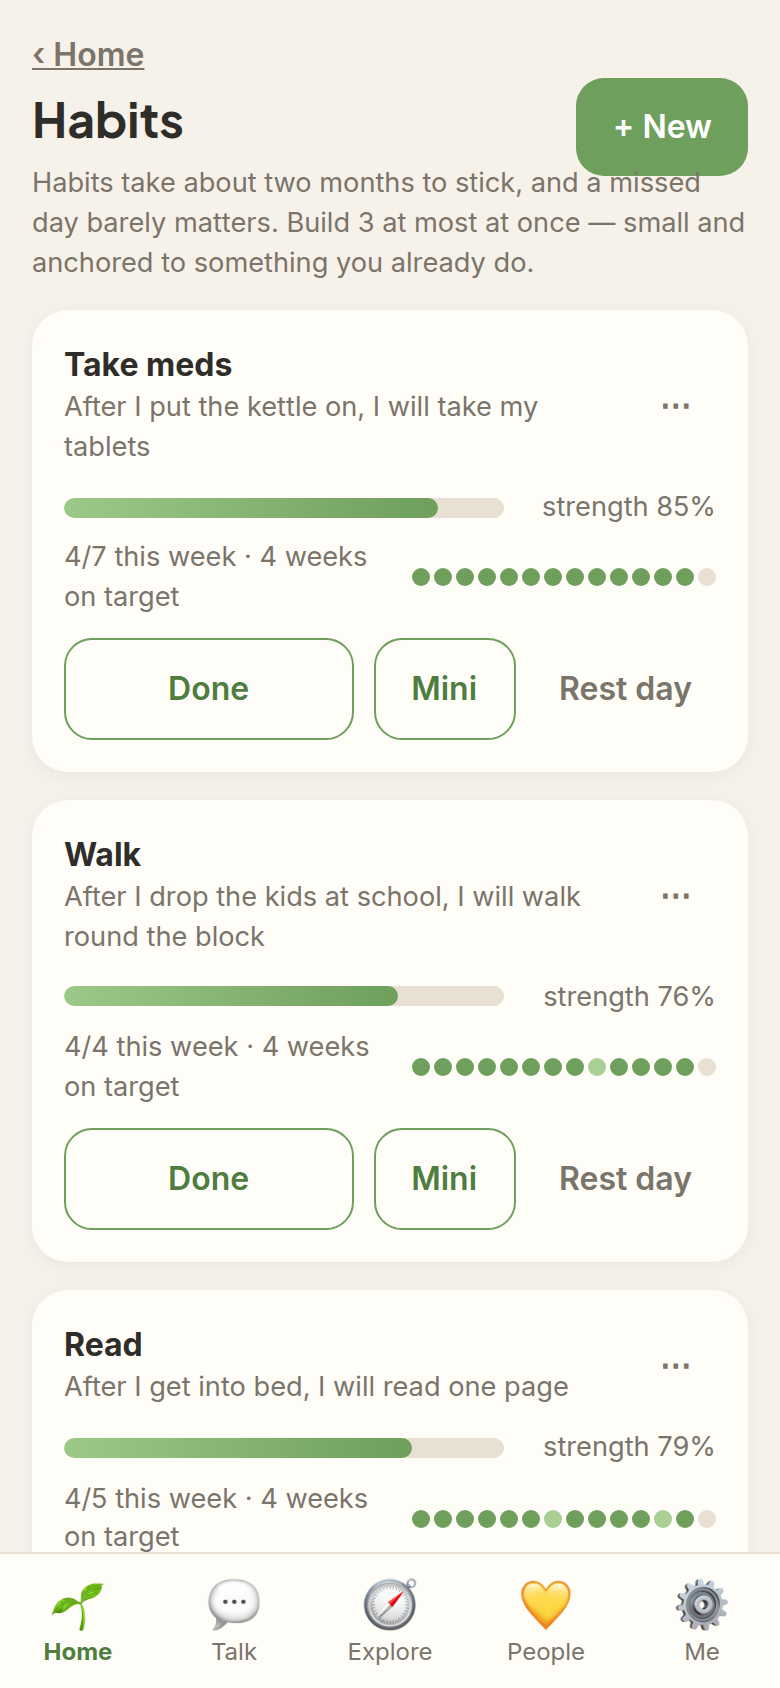
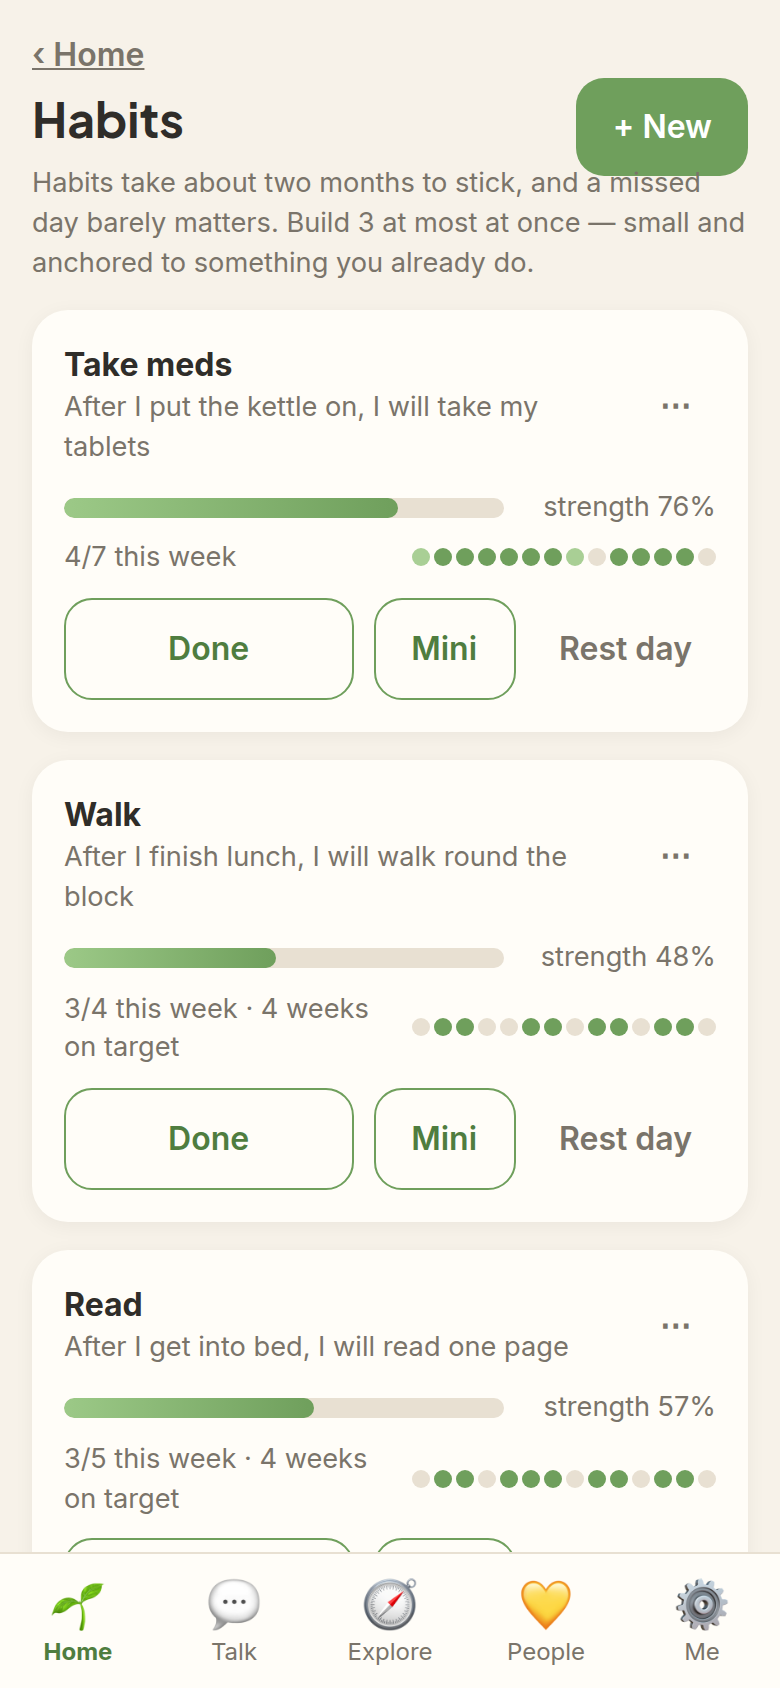
README: install guides (Docker, WSL 2, Linux without Docker), AI provider guide, HTTPS, backups; screenshots; fix header overlap

diff --git a/public/js/talk.js b/public/js/talk.js
@@ -13,7 +13,7 @@
     if (!id) {
       const { threads, web } = await api('/api/chat/threads');
       $app.innerHTML = `${modeSwitch('chat')}<div class="row"><h1 class="grow">Chat</h1><button class="btn" id="new">+ New</button></div>
-        <p class="small muted" style="margin-top:-6px">Ask anything — writing, ideas, how-to, questions. ${web ? '🌐 Can search the web (search terms leave your network).' : '🔒 Private, no web.'} For planning or how you’re feeling, use Coach.</p>
+        <p class="small muted" style="margin-top:4px">Ask anything — writing, ideas, how-to, questions. ${web ? '🌐 Can search the web (search terms leave your network).' : '🔒 Private, no web.'} For planning or how you’re feeling, use Coach.</p>
         <div class="card">${threads.length ? threads.map((t) => `<a class="friend" href="#chat/${t.id}" style="text-decoration:none;color:inherit"><div class="grow"><b>${esc(t.title)}</b><div class="small muted">${new Date(t.updated_at).toLocaleString('en-GB', { weekday: 'short', day: 'numeric', month: 'short', hour: '2-digit', minute: '2-digit' })}</div></div><span>›</span></a>`).join('') : '<p class="muted">No chats yet.</p>'}</div>`;
       document.getElementById('new').onclick = async () => { const r = await api('/api/chat/threads', { body: {} }); location.hash = `#chat/${r.thread.id}`; };
       return;

diff --git a/public/js/habits.js b/public/js/habits.js
@@ -32,7 +32,7 @@
     const showWeeks = F.state?.user?.settings?.streaks_enabled !== false;
     $app.innerHTML = `<a href="#home" class="btn ghost" style="padding-left:0">‹ Home</a>
       <div class="row"><h1 class="grow">Habits</h1><button class="btn" id="add">+ New</button></div>
-      <p class="small muted" style="margin-top:-6px">Habits take about two months to stick, and a missed day barely matters. Build ${d.maxBuilding} at most at once — small and anchored to something you already do.</p>
+      <p class="small muted" style="margin-top:4px">Habits take about two months to stick, and a missed day barely matters. Build ${d.maxBuilding} at most at once — small and anchored to something you already do.</p>
       ${d.freshStart && building.length ? '<div class="banner small">🌅 Fresh start — new week. The mini version counts in full.</div>' : ''}
       ${building.length ? building.map((h) => habitCard(h, showWeeks)).join('') : '<div class="card"><p class="muted">No habits yet. Start with one tiny thing anchored to your day — “After I pour my coffee, I take my meds.”</p></div>'}
       ${parked.length ? `<h2 style="margin-top:18px">Parking lot</h2><p class="small muted">Saved for later, so they’re not on your mind.</p>${parked.map((h) => habitCard(h, false)).join('')}` : ''}`;

diff --git a/README.md b/README.md
@@ -8,9 +8,9 @@ a little story. It never gets sad, sick or smaller because you were away.
 
 Around the pet is a toolkit built from the ADHD, habit and relapse-prevention research:
 
-- **A private ADHD coach**, running on *your* model (Ollama, llama.cpp or any OpenAI-compatible endpoint). It makes
-  if-then plans, breaks tasks into two-minute steps, captures to-dos to one inbox and nudges you at the point of
-  performance. Its crisis handling is code, not a prompt.
+- **An ADHD coach** that makes if-then plans, breaks tasks into two-minute steps, keeps one inbox and nudges
+  you at the right moment. Run it on **your own model (Ollama)** or bring an API key for **ChatGPT, Claude, Gemini
+  or OpenRouter**. Crisis handling is code, not a prompt.
 - **Habits** scored on strength rather than streaks. A missed day dents the score; it doesn't wipe your progress.
 - **A sobriety tracker** for alcohol and 21 other substances and behaviours. The headline number is *total free
   days*, which never goes down. A slip opens a short debrief, not a reset.
@@ -20,14 +20,24 @@ Around the pet is a toolkit built from the ADHD, habit and relapse-prevention re
 It runs on your server, works offline, and installs as an app on Android, iPhone and desktop.
 
 <p align="center">
-  <img src="docs/screenshots/home.png" width="230" alt="Home: the sprig in its room">
-  <img src="docs/screenshots/habits.png" width="230" alt="Habits">
-  <img src="docs/screenshots/sober.png" width="230" alt="Sobriety tracker">
+  <img src="docs/screenshots/home.png" width="200" alt="Home: the sprig in its room, energy bar and good days">
+  <img src="docs/screenshots/coach.png" width="200" alt="The coach turning 'I can't start my tax return' into a first step and a 9am nudge">
+  <img src="docs/screenshots/habits.png" width="200" alt="Habits with strength scores and Done / Mini / Rest day buttons">
+  <img src="docs/screenshots/sober.png" width="200" alt="Sobriety tracker: 45 alcohol-free days, an urge button and event plans">
+</p>
+<p align="center">
+  <img src="docs/screenshots/explore.png" width="200" alt="Explore: habits, quitting, coach skills, breathing, sounds, focus timer, stretches">
+  <img src="docs/screenshots/chat.png" width="200" alt="Everyday chat: quick dinner ideas">
+  <img src="docs/screenshots/me.png" width="200" alt="Settings: optional streaks, pause, goals, shop, adventures, insights">
 </p>
 
 > **Not therapy, not a medical device.** Pippin is a self-help wellbeing tool for adults. Questionnaires are
 > screening tools, not diagnoses. If you're struggling, speak to your GP. **In crisis (UK):** Samaritans
 > 116 123 · text SHOUT to 85258 · emergency 999. Elsewhere: [findahelpline.com](https://findahelpline.com).
+
+**Contents:** [Why](#why-another-adhd-app) · [Features](#features) · [Install](#install) · [Choosing an AI](#choosing-an-ai)
+· [HTTPS and your phone](#https-and-installing-on-your-phone) · [Updating and backups](#updating-and-backups)
+· [Configuration](#configuration) · [Safety and privacy](#safety-and-privacy) · [Contributing](#contributing)
 
 ## Why another ADHD app?
 There are good pet apps (Finch), good ADHD planners (Tiimo, Sprout), good sobriety apps (I Am Sober, Reframe) and
@@ -35,67 +45,201 @@ good habit trackers (Loop). None of them puts all of this in one place, and they
 on someone else's cloud, often with a paid AI on top. Pippin is:
 
 - **One place:** the pet keeps you coming back, and the tools are there when you do.
-- **Private:** self-hosted, encrypted at rest, no telemetry. Point the coach at a local model and nothing leaves
-  your network.
+- **Private:** self-hosted, encrypted at rest, no telemetry. With a local model, nothing leaves your network.
 - **Forgiving by design:** no decay, no lost progress, no guilt copy, no streak resets used as punishment.
 - **Free:** no ads, no paywalled self-care. Cosmetics are earned in-app.
 
-See the full [feature list](FEATURES.md).
+## Features
+The short version. The full list is in [FEATURES.md](FEATURES.md).
 
-## Principles
-1. **Nothing ever decays.** Absence is never punished.
-2. **Streaks are optional** and forgiving. Habit strength and cumulative counts replace "day 1 again".
-3. **Safety is code.** The crisis screen, withdrawal warnings and helplines don't depend on a model behaving.
-4. **The coach only touches this app.** It can't email, browse, or change anything outside it.
-5. **Your data is yours.** Export it all, delete it all, and run it where you like.
+| | |
+|---|---|
+| 🌱 **Companion** | Hatch and name a sprig; 5 growth stages; adventures with stories; outfits, furniture and room themes; seasonal events; it never decays |
+| ✅ **Goals and check-ins** | Tiny self-care goals with two-minute first steps; morning and evening mood check-ins; insights on what lifts your mood |
+| 💬 **Coach** | Morning plan, evening debrief, weekly review, can't-start, thought check, before-a-hard-thing, pause-before-acting; if-then plans with nudges; one inbox; local voice |
+| 🔁 **Habits** | "After I…, I will…" habits; X days a week; habit strength (Loop formula); Done / Mini / Rest day from the notification; max 3 building at once |
+| 🌊 **Quitting** | 22 categories; total free days that never go down; lapse debrief; urge surfing; event plans; money and units saved; per-substance safety rules and UK helplines |
+| 📋 **Check-ins for your GP** | Monthly GAD-7, PHQ-9 and WHO-5 with trends; a PDF report where you choose the period and sections |
+| 🧘 **Tools** | Breathing, generated ambient sounds, focus timer with your sprig as a body double, stretches, reflections, multi-day journeys |
+| ✨ **Chat** | Separate everyday conversations, optional web search with sources |
+| 👪 **Household** | Several people on one server, each private; friends see your sprig and shared goals, never your check-ins |
+| 📱 **App** | Installable PWA, works offline, push nudges with action buttons and a daily cap, PIN lock, export or delete everything |
 
-## Quick start
-You need Docker and somewhere to run it (a home server, a NAS, a £5 VPS). For the coach you also need a model
-endpoint; [Ollama](https://ollama.com) with a 7–14B instruct model is a reasonable start.
+## Install
+Pick one. All three end with Pippin at `http://localhost:8910`. The first screen asks for your name, a PIN and the
+setup code that the setup script prints.
 
+### Option 1: Docker on Linux or macOS (recommended)
+You need [Docker](https://docs.docker.com/engine/install/) with the Compose plugin, and `git`.
 ```bash
-git clone https://github.com/tbusiness25/pippin.git && cd pippin
-cp .env.example .env
-# fill in DB_PASSWORD, JWT_SECRET and DATA_KEY (openssl rand -hex 32 for each), SETUP_CODE,
-# and COACH_BASE_URL / COACH_MODEL for your model
+git clone https://github.com/tbusiness25/pippin.git
+cd pippin
+./scripts/setup.sh            # asks which AI to use, writes .env with fresh secrets
 docker compose up -d --build
 ```
-Open `http://localhost:8910`. The first run asks for your name, a PIN and the setup code.
+Check it's healthy with `docker compose ps`, and read the logs with `docker compose logs -f app`.
 
-**Installing it as an app, notifications and the microphone all need HTTPS.** Put it behind a reverse proxy
-(Caddy, nginx, Traefik), a Cloudflare Tunnel, or use `tailscale serve`. Don't expose port 8080 directly.
+### Option 2: Windows with WSL 2
+1. In PowerShell **as Administrator**: `wsl --install -d Ubuntu`, then restart and create your Linux user.
+2. Install **[Docker Desktop](https://docs.docker.com/desktop/setup/install/windows-install/)**. In *Settings →
+   Resources → WSL integration*, turn it on for Ubuntu. (Or install Docker Engine inside Ubuntu instead.)
+3. Open **Ubuntu** from the Start menu and run the Option 1 commands. Clone into your Linux home folder
+   (`~/pippin`), **not** `/mnt/c/…`: it's much faster and avoids file-permission problems.
+4. Open `http://localhost:8910` in your Windows browser. WSL 2 forwards the port automatically.
 
-**Back up `DATA_KEY`.** Without it, encrypted chats and transcripts can't be read. There is no recovery.
+**Using Ollama on Windows?** Install the Windows version of Ollama and pick "Ollama" in the setup script. The
+container reaches it at `host.docker.internal`. If it can't connect, set the environment variable
+`OLLAMA_HOST=0.0.0.0` in Windows, restart Ollama, and allow it through the firewall.
+
+**Keeping it running:** Pippin restarts with Docker Desktop. Turn on *"Start Docker Desktop when you sign in"* so
+nudges still arrive after a reboot. WSL stops when nothing is using it, and Docker Desktop keeps it awake.
+
+### Option 3: Linux without Docker
+You need **Node.js 20+** and **PostgreSQL 14+**. On Debian or Ubuntu:
+```bash
+sudo apt install -y postgresql git curl
+curl -fsSL https://deb.nodesource.com/setup_20.x | sudo -E bash - && sudo apt install -y nodejs
+
+git clone https://github.com/tbusiness25/pippin.git && cd pippin
+./scripts/setup.sh                     # answer "n" to "Run with Docker?"
+
+# create the database with the password the script put in .env
+source <(grep -E '^(DB_NAME|DB_USER|DB_PASSWORD)=' .env)
+sudo -u postgres psql -c "CREATE USER $DB_USER WITH PASSWORD '$DB_PASSWORD';"
+sudo -u postgres psql -c "CREATE DATABASE $DB_NAME OWNER $DB_USER;"
+sudo -u postgres psql -d "$DB_NAME" -c "CREATE EXTENSION IF NOT EXISTS pgcrypto;"
+
+npm install --omit=dev
+PORT=8910 npm start                    # tables are created on first start
+```
+To run it as a service, save this as `/etc/systemd/system/pippin.service` (change the user and path):
+```ini
+[Unit]
+Description=Pippin
+After=network-online.target postgresql.service
+
+[Service]
+User=youruser
+WorkingDirectory=/home/youruser/pippin
+Environment=PORT=8910 SW_VERSION=1
+ExecStart=/usr/bin/node server.js
+Restart=on-failure
+
+[Install]
+WantedBy=multi-user.target
+```
+Then run `sudo systemctl enable --now pippin`. Without Docker, set `AI_BASE_URL=http://localhost:11434/v1` for Ollama
+(the setup script does this for you).
+
+## Choosing an AI
+The coach, chat and adventure stories use one model, chosen with three settings in `.env`. The setup script
+asks you; this is what it writes.
+
+| You want | `AI_PROVIDER` | `AI_MODEL` (example) | `AI_API_KEY` | Privacy |
+|---|---|---|---|---|
+| **Free and private**, on your own computer | `ollama` | `qwen3:8b` · `llama3.1:8b` · `gemma3:12b` | — | 🔒 Nothing leaves your network |
+| **ChatGPT** models | `openai` | `gpt-4.1-mini` | from [platform.openai.com](https://platform.openai.com/api-keys) | ☁ Sent to OpenAI |
+| **Claude** models | `anthropic` | `claude-sonnet-5-5` · `claude-haiku-4-5` | from [console.anthropic.com](https://console.anthropic.com/) | ☁ Sent to Anthropic |
+| **Gemini** | `gemini` | `gemini-2.5-flash` | from [aistudio.google.com](https://aistudio.google.com/apikey) | ☁ Sent to Google |
+| Lots of models, one key | `openrouter` | e.g. `anthropic/claude-sonnet-5.5` | from [openrouter.ai](https://openrouter.ai/keys) | ☁ Sent to OpenRouter and the model's provider |
+| **Any OpenAI-compatible server**: llama.cpp, LM Studio, vLLM, LocalAI, Jan… | `custom` | whatever the server calls it | if it needs one | Depends where it runs |
+
+Examples:
+```ini
+# Ollama on the same machine (ollama pull qwen3:8b first)
+AI_PROVIDER=ollama
+AI_MODEL=qwen3:8b
+
+# Ollama on another computer on your network
+AI_PROVIDER=ollama
+AI_MODEL=qwen3:14b
+AI_BASE_URL=http://192.168.1.50:11434/v1
+
+# Claude
+AI_PROVIDER=anthropic
+AI_MODEL=claude-sonnet-5-5
+AI_API_KEY=sk-ant-...
+
+# LM Studio's local server
+AI_PROVIDER=custom
+AI_BASE_URL=http://host.docker.internal:1234/v1
+AI_MODEL=qwen3-8b
+```
+After changing `.env`, run `docker compose up -d` (or restart the service).
+
+**Which model is good enough?** The coach uses tool calling, so pick a model that supports it. Locally, 8B models
+work and 14–35B models follow the coach's rules noticeably better. Every cloud option above is capable.
+
+**About privacy with cloud models:** your coach conversations, and the goals and check-ins the coach uses as
+context, are sent to the provider. The app shows "(remote)" next to the model and tells you where your
+conversations go. Crisis detection, the helplines and everything outside the AI features work the same either way.
+
+**Mixing models** is possible: a local model for the coach and a cloud one for stories, for example. See
+"Advanced" in [`.env.example`](.env.example).
+
+## HTTPS and installing on your phone
+Installing as an app, notifications and the microphone all need **HTTPS**. Plain `http://localhost` works on the
+computer running Pippin, but not from your phone. The easiest options:
+
+- **[Tailscale](https://tailscale.com/)** (free, private): install it on the server and your phone, then run
+  `tailscale serve --bg 8910`. Open the `https://<machine>.<tailnet>.ts.net` address on your phone.
+- **Cloudflare Tunnel**: public HTTPS without opening ports. Put Cloudflare Access in front if it's on the internet.
+- **A reverse proxy** such as Caddy (`pippin.example.com { reverse_proxy localhost:8910 }`), nginx or Traefik.
+
+Then open the address on your phone and choose **Add to Home Screen** (iPhone: Share → Add to Home Screen;
+Android: ⋮ → Install app). Turn on nudges in *Me → Nudges*.
+
+**Don't expose Pippin to the internet without HTTPS**, and set `SETUP_CODE` (the setup script does) so nobody can
+claim it before you do.
+
+## Updating and backups
+```bash
+git pull
+docker compose up -d --build                      # or: npm install --omit=dev && sudo systemctl restart pippin
+```
+Database changes apply automatically on start.
+
+**Back up** two things:
+- **The database:** `docker compose exec db pg_dump -U pippin pippin > pippin-$(date +%F).sql`
+- **`DATA_KEY` from `.env`**, stored somewhere safe. Without it, encrypted chats and transcripts can't be read.
+  There is no recovery, by design.
+
+You can also export everything you've entered as JSON from inside the app (*Me → Privacy*).
 
 ## Configuration
-Everything is in [`.env.example`](.env.example), with comments. The main switches:
+Everything is in [`.env.example`](.env.example), with comments. Beyond the AI settings:
 
 | Setting | What it does |
 |---|---|
-| `COACH_BASE_URL`, `COACH_MODEL` | The coach's model (any OpenAI-compatible endpoint). The app warns if it isn't local |
-| `BRAIN=openai` / `hermes` | Optional "plan my day" brain; `hermes` uses [Hermes Agent](https://github.com/NousResearch/hermes-agent) to read your calendar and email |
-| `CHAT_WEB=true` + `SEARXNG_URL` | Lets everyday chat search the web. The coach never does |
-| `WHISPER_URL`, `TTS_URL` | Local voice in and out |
+| `SETUP_CODE` | Required on the first-run screen |
+| `APP_NAME` | Call your copy whatever you like |
+| `TZ_DEFAULT` | Your time zone (nudges and "today" follow it) |
+| `COACH_RETENTION_DAYS` | Coach conversations are deleted after this (default 60) |
+| `CRISIS_RESOURCES_JSON` | Crisis lines for your country (defaults are UK) |
+| `CHAT_WEB=true` + `SEARXNG_URL` | Lets everyday chat search the web through your [SearXNG](https://docs.searxng.org/). The coach never does |
+| `WHISPER_URL`, `TTS_URL` | Local voice in and out (any OpenAI-compatible speech server) |
+| `BRAIN=hermes` | "Plan my day" from your real calendar and email via [Hermes Agent](https://github.com/NousResearch/hermes-agent) |
 | `VAULT_HOST_DIR` | An Obsidian folder for notes you approve |
 | `VOICE_NOTES_HOST_DIR` | A folder of transcribed voice notes to sort into reminders, memories and journal |
-| `CRISIS_RESOURCES_JSON` | Crisis lines for your country (defaults are UK) |
-| `APP_NAME` | Call your copy whatever you like |
 
 ## Safety and privacy
 - [docs/SAFETY.md](docs/SAFETY.md): intended purpose, hazard log, red-team suite and regulatory position
 - [PRIVACY.md](PRIVACY.md): what stays on your server and what can leave it (only things you turn on)
 - [SECURITY.md](SECURITY.md): reporting vulnerabilities
 
-The design is grounded in published research; the reports and sources are in [docs/research](docs/research/reports/).
+The design is grounded in published research. The reports and their sources are in
+[docs/research](docs/research/reports/).
 
 ## Status
-Version 0.8: everything listed works and the author uses it, but this is a first public release by one
-person. Read [docs/KNOWN_ISSUES.md](docs/KNOWN_ISSUES.md) before relying on it, and see the [roadmap](ROADMAP.md).
+Version 0.8 is the first public release, by one person. Everything listed works, but read
+[docs/KNOWN_ISSUES.md](docs/KNOWN_ISSUES.md) before relying on it, and see the [roadmap](ROADMAP.md) and
+[changelog](CHANGELOG.md).
 
 UK-first: helplines, units and guidance are British. Country packs are welcome contributions.
 
 ## Contributing
-Bug reports, safety reports and small PRs are very welcome. Start with [CONTRIBUTING.md](CONTRIBUTING.md).
+Bug reports, safety reports and small PRs are very welcome. Start with [CONTRIBUTING.md](CONTRIBUTING.md) and
+the [code of conduct](CODE_OF_CONDUCT.md).
 
 ## Licence
 [AGPL-3.0](LICENSE). Use it, self-host it and change it freely. If you run a modified version as a service for

diff --git a/docs/KNOWN_ISSUES.md b/docs/KNOWN_ISSUES.md
@@ -37,5 +37,4 @@ The live list is in GitHub Issues — this file is the snapshot at release, so n
 | B8 | The optional live WhatsApp link uses an unofficial library (Baileys). It may break, and WhatsApp may restrict accounts that use it — the export importer is the safer route |
 | B9 | No automated unit/integration tests yet — only the safety red-team script |
 | B10 | Accessibility hasn't been audited (screen readers, contrast, reduced motion) |
-| B12 | Habits screen: the "+ New" button overlaps the intro text at phone width |
 | B11 | `BRAIN=hermes` (calendar/email planning) needs a separately-run Hermes Agent and takes 1–3 minutes |
